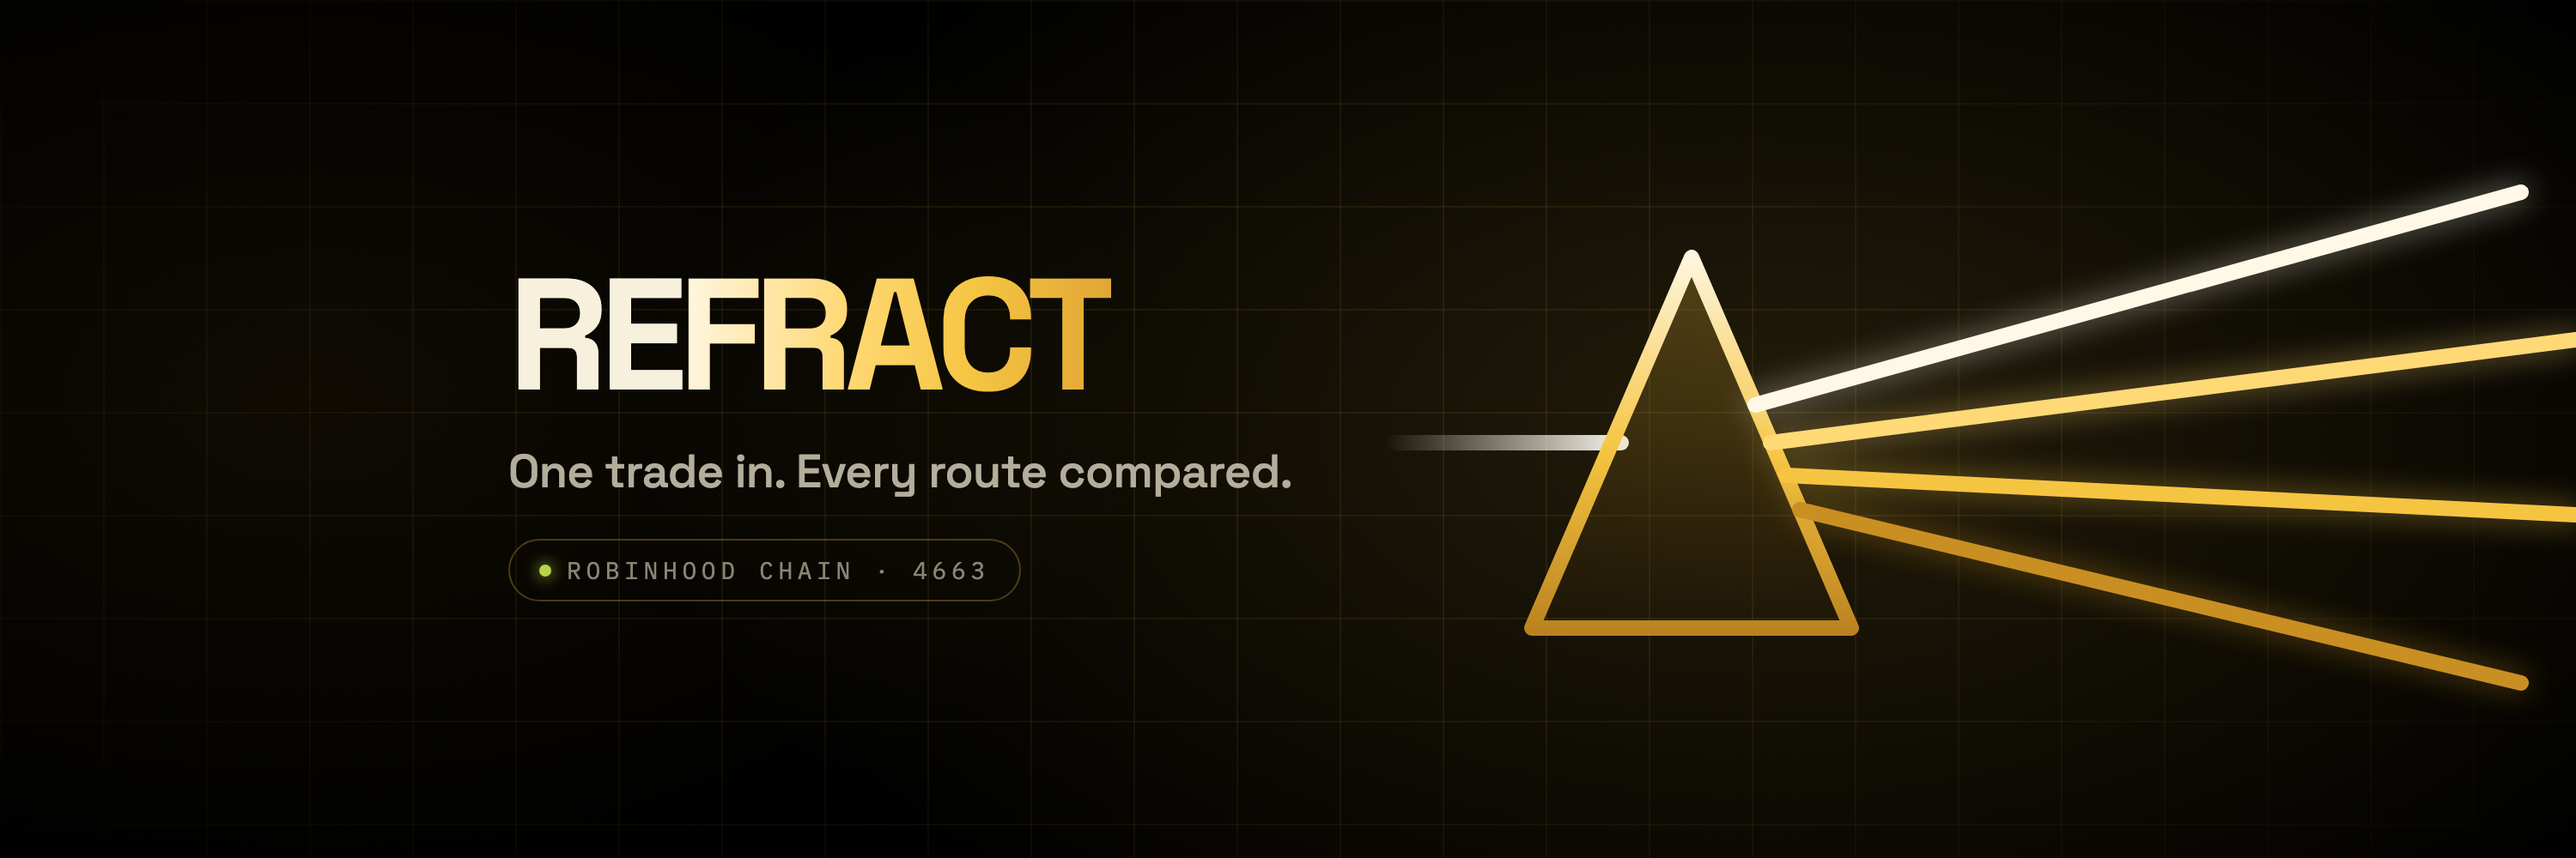
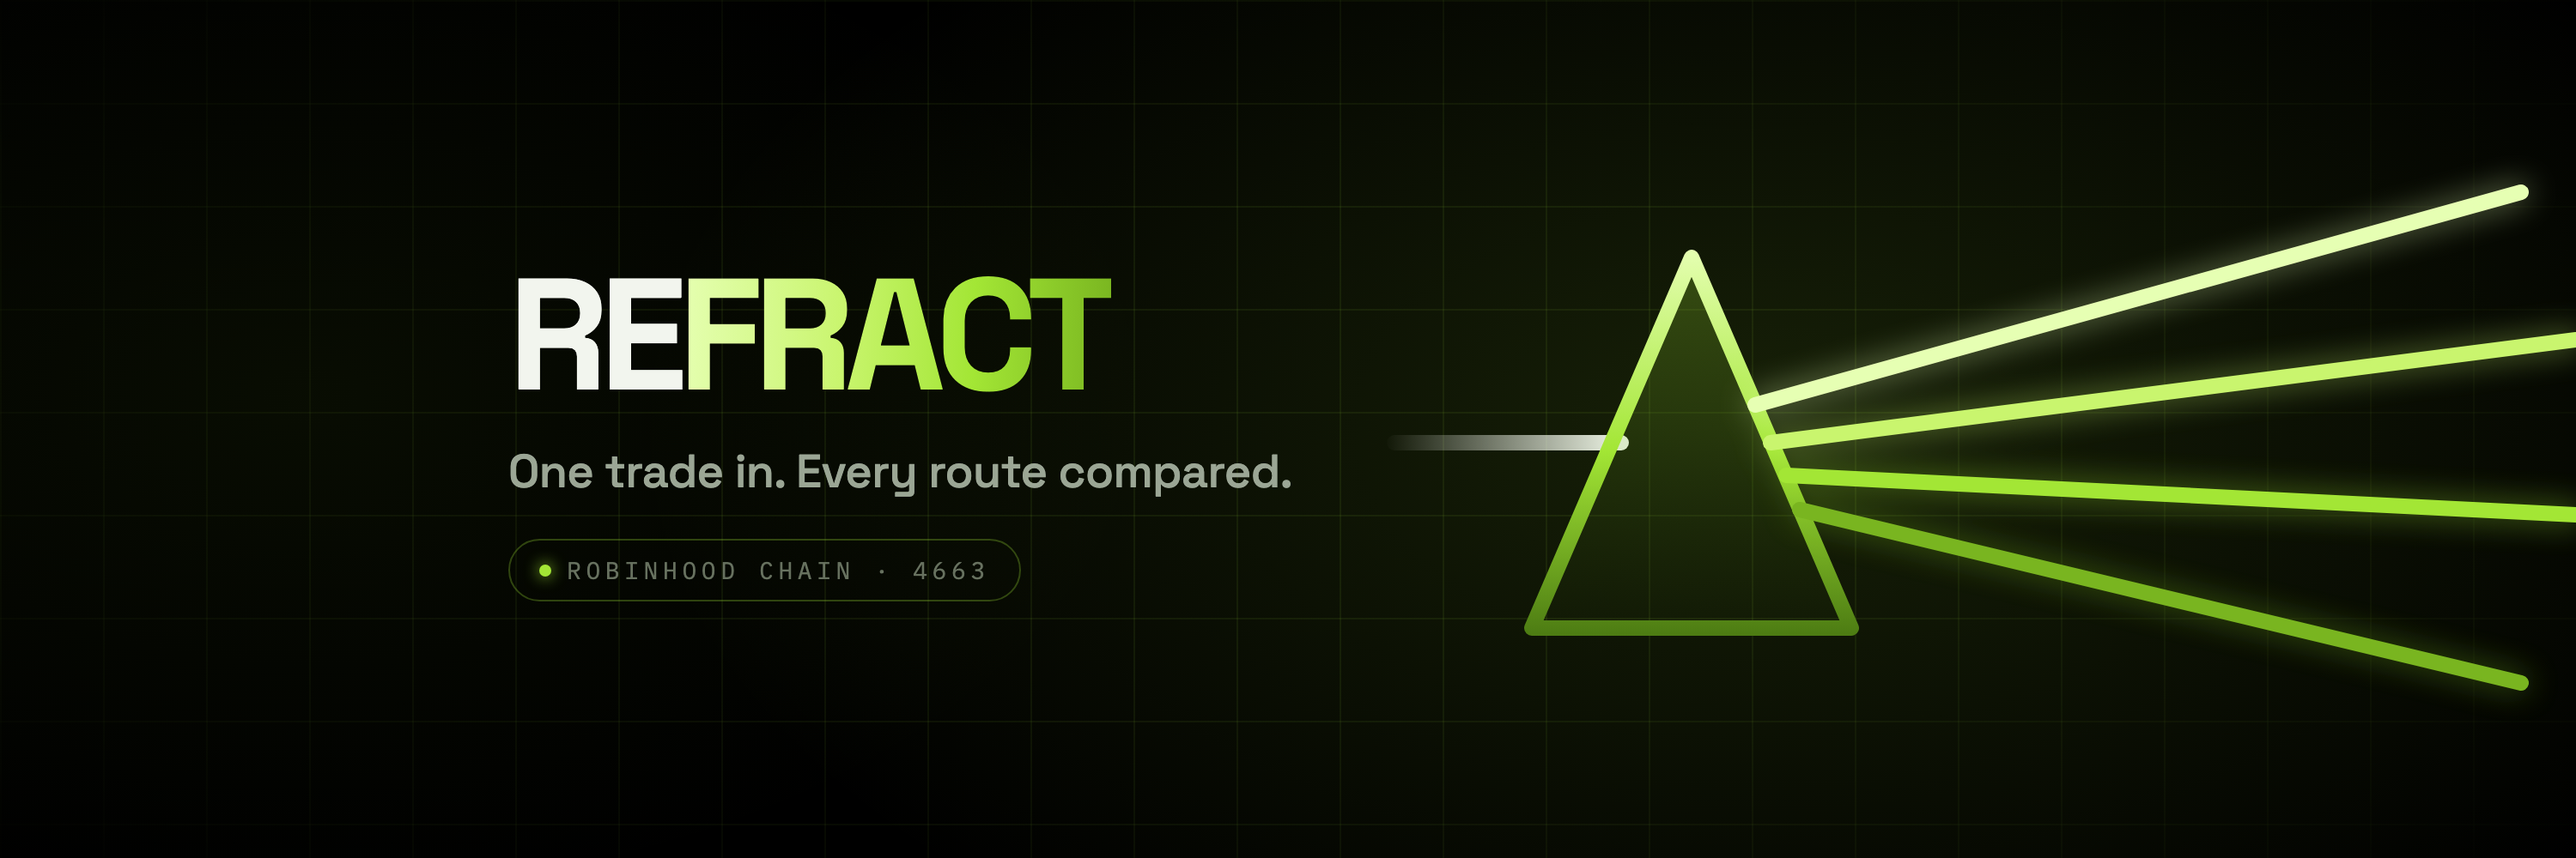
Recolour brand assets to the current lime palette
The mark and header were built on the earlier gold tokens. Remap them onto
the stylesheet's current values so the assets cannot drift from the running
site: gold #a3e635, honey #c9f56e, champagne #e6ffb3, brass #79b520,
bronze #4b7a12, text #f2f5ee.

diff --git a/public/brand/banner.html b/public/brand/banner.html
@@ -7,44 +7,44 @@
   *{margin:0;padding:0;box-sizing:border-box}
   body{width:1500px;height:500px;overflow:hidden;background:#000}
   .stage{position:relative;width:1500px;height:500px;background:
-     radial-gradient(ellipse 70% 120% at 68% 50%, rgba(245,197,66,.14), transparent 62%),
-     radial-gradient(ellipse 50% 90% at 12% 46%, rgba(224,165,52,.07), transparent 66%),
+     radial-gradient(ellipse 70% 120% at 68% 50%, rgba(163,230,53,.14), transparent 62%),
+     radial-gradient(ellipse 50% 90% at 12% 46%, rgba(121,181,32,.07), transparent 66%),
      #000;}
   /* fine grid, faded out at the edges */
   .grid{position:absolute;inset:0;
-    background-image:linear-gradient(rgba(245,197,66,.075) 1px,transparent 1px),
-                     linear-gradient(90deg,rgba(245,197,66,.075) 1px,transparent 1px);
+    background-image:linear-gradient(rgba(163,230,53,.075) 1px,transparent 1px),
+                     linear-gradient(90deg,rgba(163,230,53,.075) 1px,transparent 1px);
     background-size:60px 60px;
     -webkit-mask-image:radial-gradient(ellipse 80% 100% at 50% 50%,#000 30%,transparent 82%);}
   svg{position:absolute;inset:0}
   .copy{position:absolute;left:296px;top:50%;transform:translateY(-50%);}
   .word{font-family:'Space Grotesk',system-ui,sans-serif;font-weight:700;font-size:92px;
-        letter-spacing:-.055em;color:#f7f0dd;line-height:1;}
-  .word b{font-weight:700;background:linear-gradient(92deg,#fff8e6,#ffd976 38%,#f5c542 68%,#e0a534);
+        letter-spacing:-.055em;color:#f2f5ee;line-height:1;}
+  .word b{font-weight:700;background:linear-gradient(92deg,#e6ffb3,#c9f56e 38%,#a3e635 68%,#79b520);
           -webkit-background-clip:text;background-clip:text;color:transparent;}
   .tag{font-family:'Space Grotesk',system-ui,sans-serif;font-weight:500;font-size:27px;
-       color:#b3ad9c;margin-top:16px;letter-spacing:-.012em;}
+       color:#9ba695;margin-top:16px;letter-spacing:-.012em;}
   .chip{display:inline-flex;align-items:center;gap:9px;margin-top:22px;
         font-family:'IBM Plex Mono',monospace;font-size:14px;letter-spacing:.2em;
-        text-transform:uppercase;color:#8a8474;border:1px solid rgba(245,197,66,.28);
+        text-transform:uppercase;color:#67715f;border:1px solid rgba(163,230,53,.28);
         border-radius:999px;padding:8px 17px;}
-  .dot{width:7px;height:7px;border-radius:50%;background:#b8d44a;box-shadow:0 0 9px #b8d44a;}
+  .dot{width:7px;height:7px;border-radius:50%;background:#a3e635;box-shadow:0 0 9px #a3e635;}
 </style>
 <div class="stage">
   <div class="grid"></div>
   <svg viewBox="0 0 1500 500" width="1500" height="500" fill="none">
     <defs>
       <linearGradient id="bface" x1="985" y1="150" x2="985" y2="366" gradientUnits="userSpaceOnUse">
-        <stop offset="0%" stop-color="#f5c542" stop-opacity=".26"/>
-        <stop offset="100%" stop-color="#a8701a" stop-opacity=".04"/>
+        <stop offset="0%" stop-color="#a3e635" stop-opacity=".26"/>
+        <stop offset="100%" stop-color="#4b7a12" stop-opacity=".04"/>
       </linearGradient>
       <linearGradient id="bedge" x1="985" y1="144" x2="985" y2="372" gradientUnits="userSpaceOnUse">
-        <stop offset="0%" stop-color="#fff8e6"/><stop offset="52%" stop-color="#f5c542"/>
-        <stop offset="100%" stop-color="#b8801e"/>
+        <stop offset="0%" stop-color="#e6ffb3"/><stop offset="52%" stop-color="#a3e635"/>
+        <stop offset="100%" stop-color="#4b7a12"/>
       </linearGradient>
       <linearGradient id="bbeam" x1="806" y1="0" x2="944" y2="0" gradientUnits="userSpaceOnUse">
-        <stop offset="0%" stop-color="#f7f0dd" stop-opacity="0"/>
-        <stop offset="100%" stop-color="#fffdf6" stop-opacity=".95"/>
+        <stop offset="0%" stop-color="#f2f5ee" stop-opacity="0"/>
+        <stop offset="100%" stop-color="#f8fff0" stop-opacity=".95"/>
       </linearGradient>
       <filter id="soft" x="-25%" y="-60%" width="150%" height="220%">
         <feGaussianBlur stdDeviation="9"/>
@@ -60,16 +60,16 @@
 
     <!-- refracted spectrum, glow pass then crisp pass -->
     <g filter="url(#soft)" opacity=".5" stroke-width="9" stroke-linecap="round">
-      <path d="M1022 236 L1468 112" stroke="#fff8e6"/>
-      <path d="M1031 258 L1500 198" stroke="#ffd976"/>
-      <path d="M1040 277 L1500 300" stroke="#f5c542"/>
-      <path d="M1048 297 L1468 398" stroke="#c98f22"/>
+      <path d="M1022 236 L1468 112" stroke="#e6ffb3"/>
+      <path d="M1031 258 L1500 198" stroke="#c9f56e"/>
+      <path d="M1040 277 L1500 300" stroke="#a3e635"/>
+      <path d="M1048 297 L1468 398" stroke="#79b520"/>
     </g>
     <g stroke-width="9" stroke-linecap="round">
-      <path d="M1022 236 L1468 112" stroke="#fff8e6"/>
-      <path d="M1031 258 L1500 198" stroke="#ffd976"/>
-      <path d="M1040 277 L1500 300" stroke="#f5c542"/>
-      <path d="M1048 297 L1468 398" stroke="#c98f22"/>
+      <path d="M1022 236 L1468 112" stroke="#e6ffb3"/>
+      <path d="M1031 258 L1500 198" stroke="#c9f56e"/>
+      <path d="M1040 277 L1500 300" stroke="#a3e635"/>
+      <path d="M1048 297 L1468 398" stroke="#79b520"/>
     </g>
   </svg>
 
